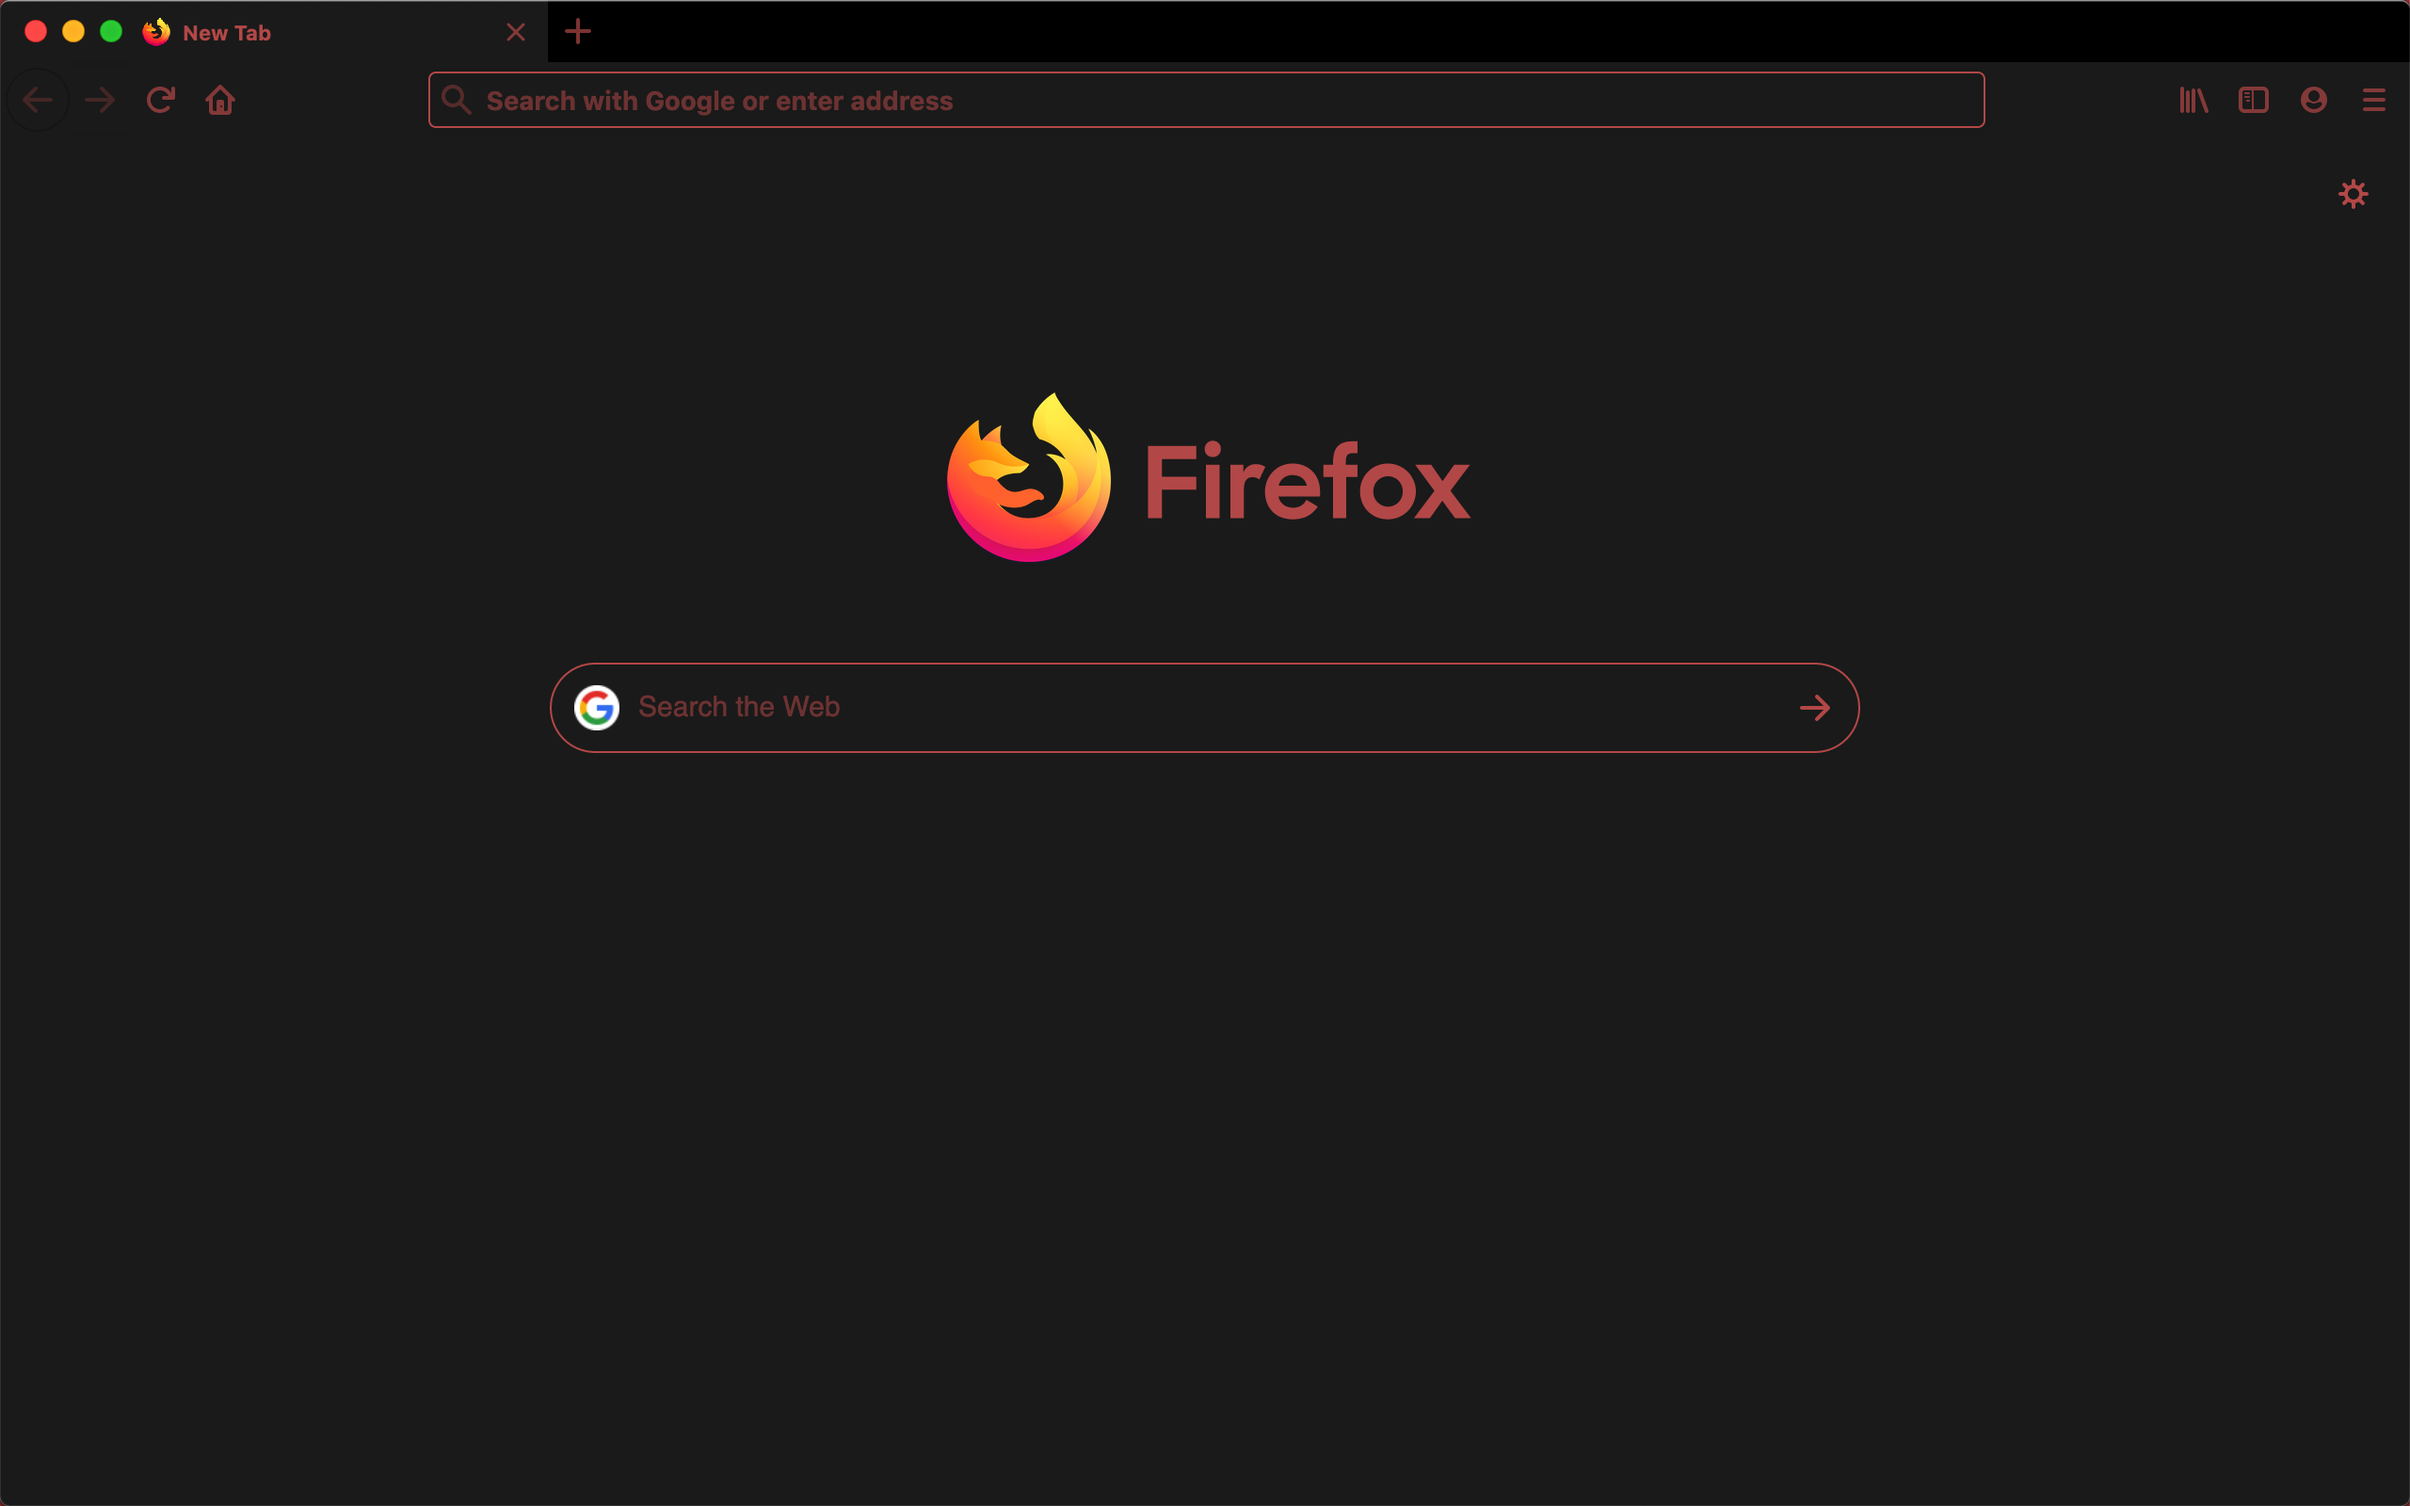
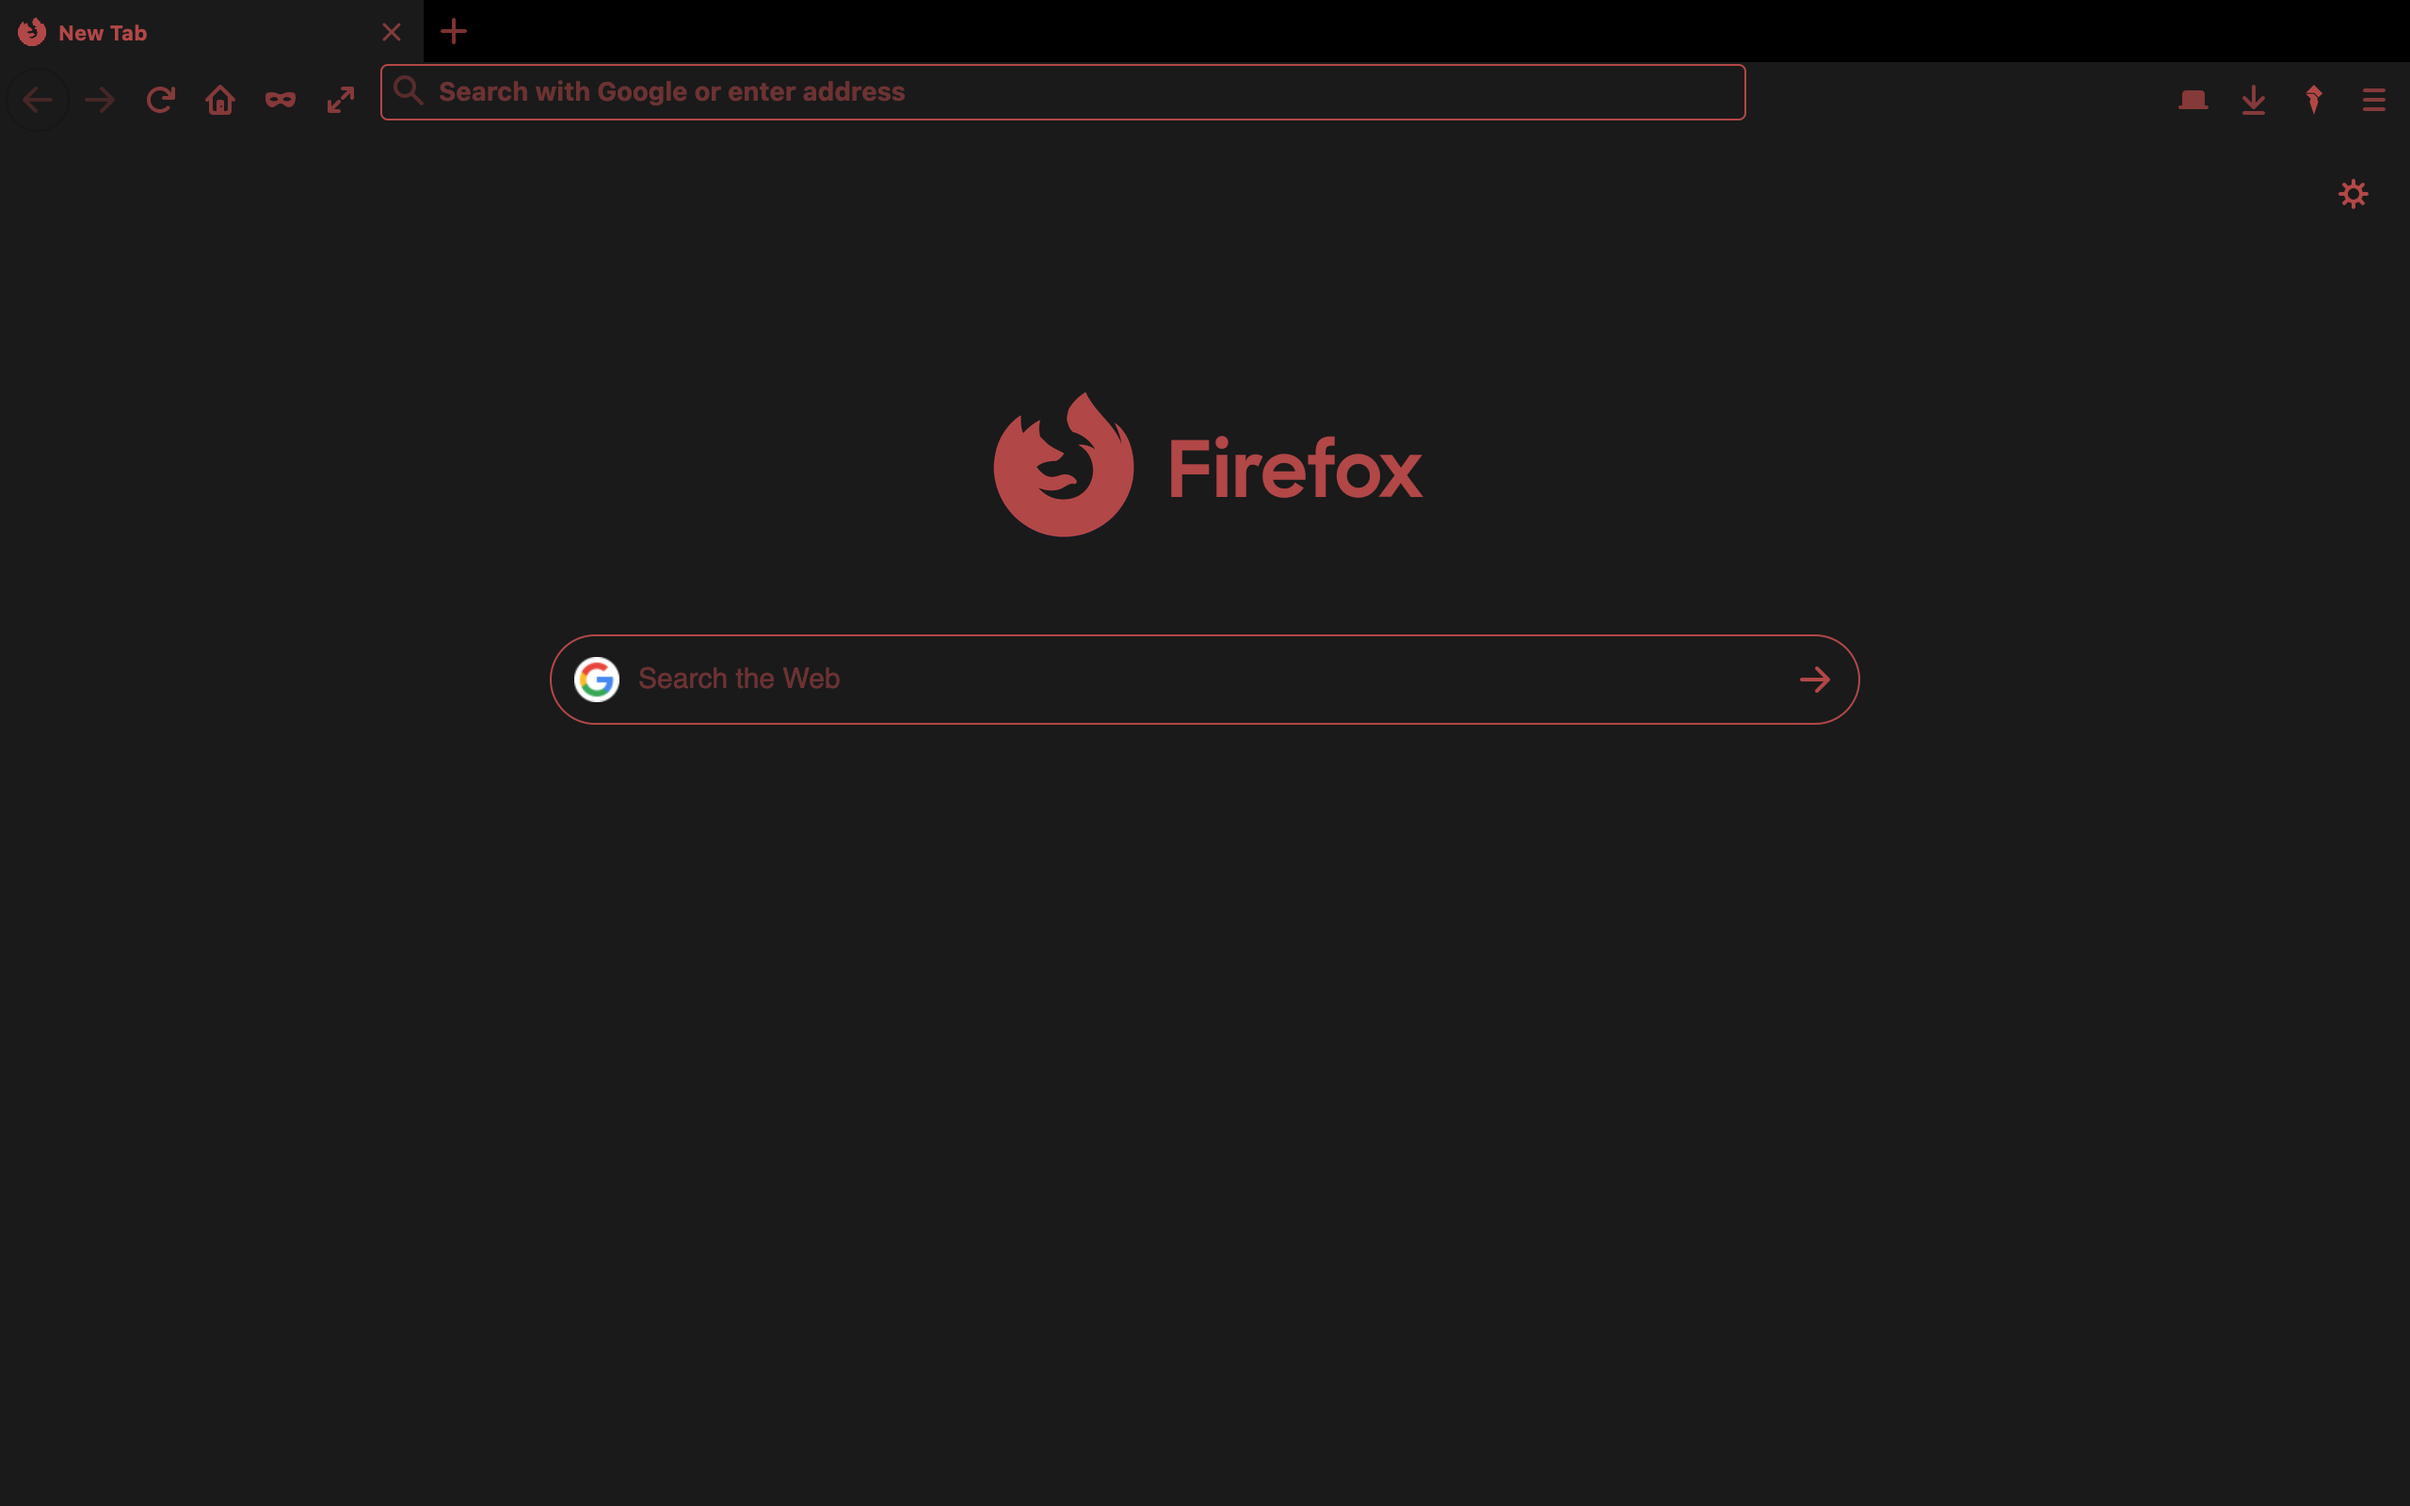
v4.0.1

diff --git a/userContent.css b/userContent.css
@@ -34,6 +34,15 @@ Private Browsing
 */
 @-moz-document url(about:privatebrowsing) {
 
+/* Removes the VPN ad */
+#private-browsing-vpn-text {
+    display: none !important;
+}
+
+#private-browsing-vpn-link {
+    display: none !important;
+}
+
 
 
 /* Gets rid of search bar in private browsing mode */
@@ -159,7 +168,7 @@ margin-bottom: 49px; }
 
 
 /* Changes the logo on the home screen*/
-.logo {background-image: url("firefox_halo_with_paw.png") !important;}
+.logo {background-image: url("firefox_halo_with_paw_red.png") !important;}
 
 
 
